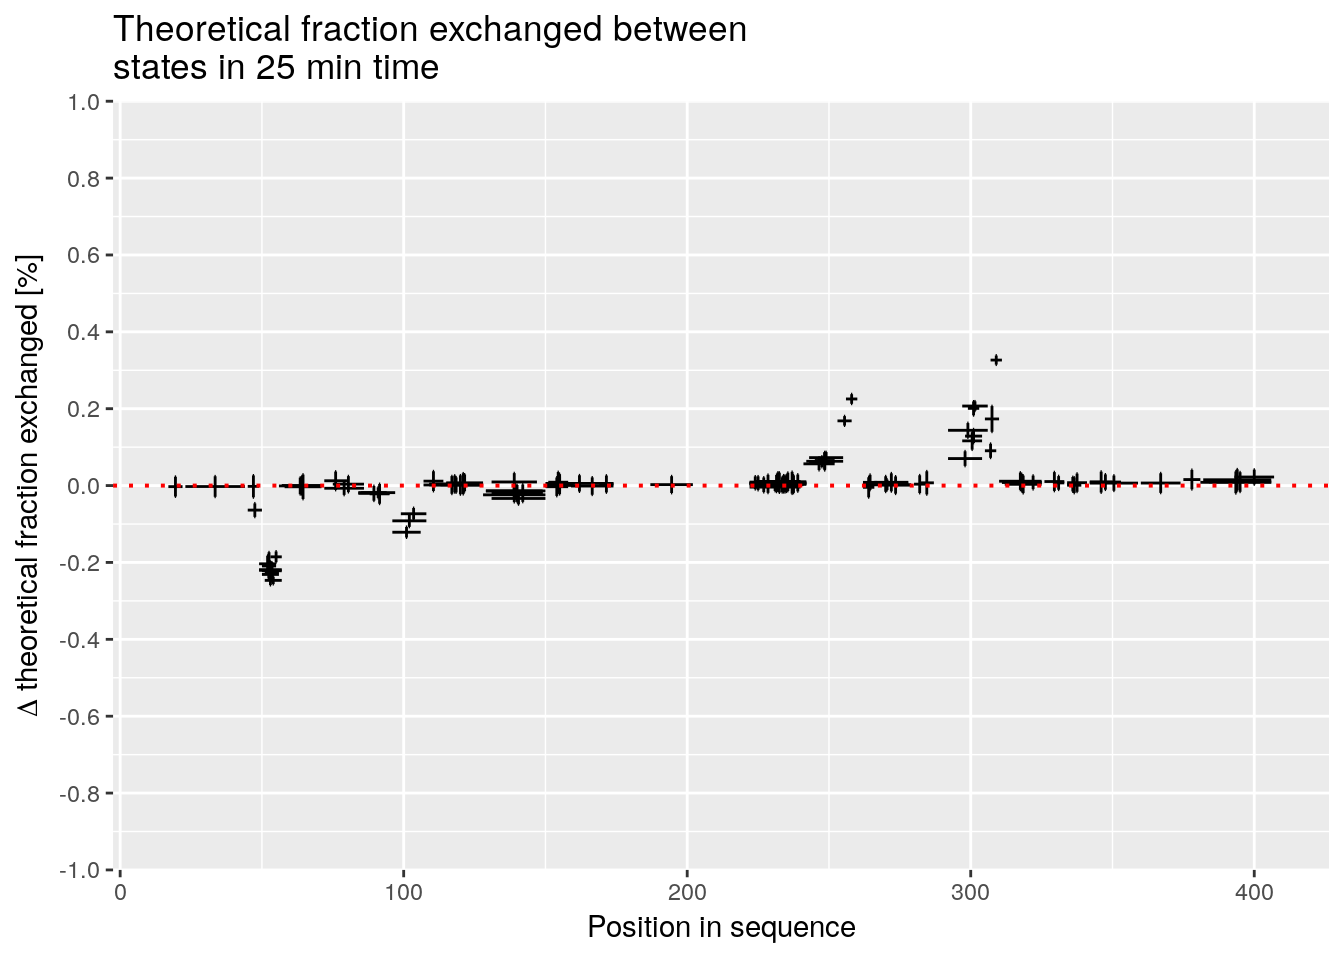
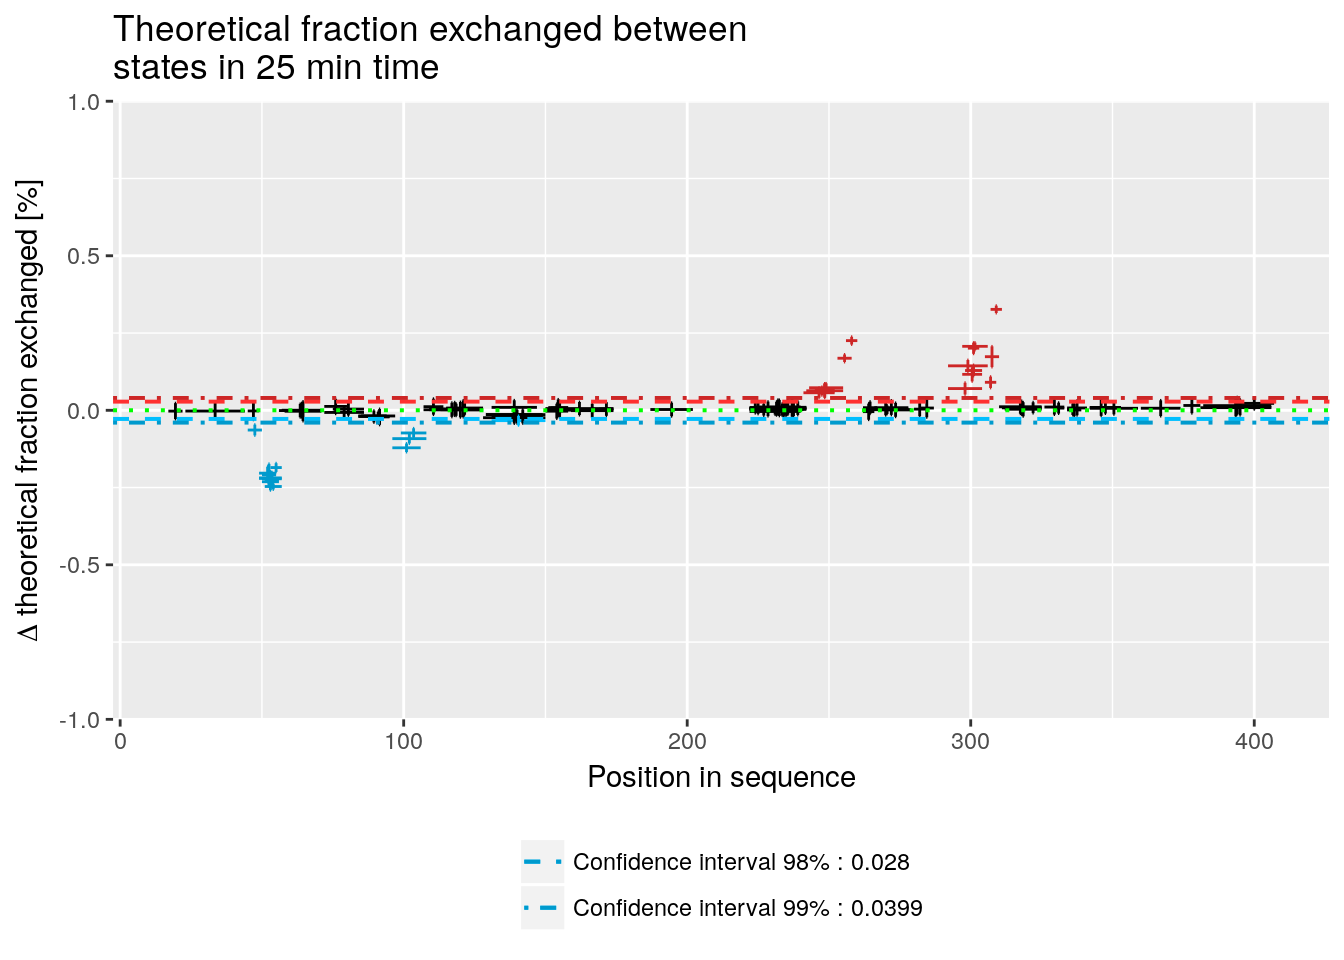
updated docs

diff --git a/docs/reference/woods_plot.html b/docs/reference/woods_plot.html
@@ -118,7 +118,8 @@
     
     </div>
 
-    <pre class="usage"><span class='fu'>woods_plot</span>(<span class='no'>calc_dat</span>, <span class='kw'>theoretical</span> <span class='kw'>=</span> <span class='fl'>FALSE</span>, <span class='kw'>relative</span> <span class='kw'>=</span> <span class='fl'>TRUE</span>)</pre>
+    <pre class="usage"><span class='fu'>woods_plot</span>(<span class='no'>calc_dat</span>, <span class='kw'>theoretical</span> <span class='kw'>=</span> <span class='fl'>FALSE</span>, <span class='kw'>relative</span> <span class='kw'>=</span> <span class='fl'>TRUE</span>,
+  <span class='kw'>confidence_limit</span> <span class='kw'>=</span> <span class='fl'>0.98</span>, <span class='kw'>confidence_limit_2</span> <span class='kw'>=</span> <span class='fl'>0.99</span>)</pre>
     
     <h2 class="hasAnchor" id="arguments"><a class="anchor" href="#arguments"></a>Arguments</h2>
     <table class="ref-arguments">
@@ -134,6 +135,14 @@
     <tr>
       <th>relative</th>
       <td><p>logical value to determine if values are relative or absolute. default : true</p></td>
+    </tr>
+    <tr>
+      <th>confidence_limit</th>
+      <td><p>confidence limit</p></td>
+    </tr>
+    <tr>
+      <th>confidence_limit_2</th>
+      <td><p>confidence limit 2</p></td>
     </tr>
     </table>
     
@@ -165,13 +174,21 @@
                             <span class='kw'>out_state_second</span> <span class='kw'>=</span> <span class='st'>"CD160_HVEM_1440"</span>)
 <span class='fu'>woods_plot</span>(<span class='kw'>calc_dat</span> <span class='kw'>=</span> <span class='no'>calc_dat</span>,
            <span class='kw'>theoretical</span> <span class='kw'>=</span> <span class='fl'>TRUE</span>,
-           <span class='kw'>relative</span> <span class='kw'>=</span> <span class='fl'>TRUE</span>)</div><div class='img'><img src='woods_plot-1.png' alt='' width='700' height='433' /></div><div class='input'><span class='fu'>woods_plot</span>(<span class='kw'>calc_dat</span> <span class='kw'>=</span> <span class='no'>calc_dat</span>,
+           <span class='kw'>relative</span> <span class='kw'>=</span> <span class='fl'>TRUE</span>,
+           <span class='kw'>confidence_limit</span> <span class='kw'>=</span> <span class='fl'>0.98</span>,
+           <span class='kw'>confidence_limit_2</span> <span class='kw'>=</span> <span class='fl'>0.99</span>)</div><div class='img'><img src='woods_plot-1.png' alt='' width='700' height='433' /></div><div class='input'><span class='fu'>woods_plot</span>(<span class='kw'>calc_dat</span> <span class='kw'>=</span> <span class='no'>calc_dat</span>,
            <span class='kw'>theoretical</span> <span class='kw'>=</span> <span class='fl'>FALSE</span>,
-           <span class='kw'>relative</span> <span class='kw'>=</span> <span class='fl'>TRUE</span>)</div><div class='img'><img src='woods_plot-2.png' alt='' width='700' height='433' /></div><div class='input'><span class='fu'>woods_plot</span>(<span class='kw'>calc_dat</span> <span class='kw'>=</span> <span class='no'>calc_dat</span>,
+           <span class='kw'>relative</span> <span class='kw'>=</span> <span class='fl'>TRUE</span>,
+           <span class='kw'>confidence_limit</span> <span class='kw'>=</span> <span class='fl'>0.98</span>,
+           <span class='kw'>confidence_limit_2</span> <span class='kw'>=</span> <span class='fl'>0.99</span>)</div><div class='img'><img src='woods_plot-2.png' alt='' width='700' height='433' /></div><div class='input'><span class='fu'>woods_plot</span>(<span class='kw'>calc_dat</span> <span class='kw'>=</span> <span class='no'>calc_dat</span>,
            <span class='kw'>theoretical</span> <span class='kw'>=</span> <span class='fl'>TRUE</span>,
-           <span class='kw'>relative</span> <span class='kw'>=</span> <span class='fl'>FALSE</span>)</div><div class='img'><img src='woods_plot-3.png' alt='' width='700' height='433' /></div><div class='input'><span class='fu'>woods_plot</span>(<span class='kw'>calc_dat</span> <span class='kw'>=</span> <span class='no'>calc_dat</span>,
+           <span class='kw'>relative</span> <span class='kw'>=</span> <span class='fl'>FALSE</span>,
+           <span class='kw'>confidence_limit</span> <span class='kw'>=</span> <span class='fl'>0.98</span>,
+           <span class='kw'>confidence_limit_2</span> <span class='kw'>=</span> <span class='fl'>0.99</span>)</div><div class='img'><img src='woods_plot-3.png' alt='' width='700' height='433' /></div><div class='input'><span class='fu'>woods_plot</span>(<span class='kw'>calc_dat</span> <span class='kw'>=</span> <span class='no'>calc_dat</span>,
            <span class='kw'>theoretical</span> <span class='kw'>=</span> <span class='fl'>FALSE</span>,
-           <span class='kw'>relative</span> <span class='kw'>=</span> <span class='fl'>FALSE</span>)</div><div class='img'><img src='woods_plot-4.png' alt='' width='700' height='433' /></div><div class='input'>            
+           <span class='kw'>relative</span> <span class='kw'>=</span> <span class='fl'>FALSE</span>,
+           <span class='kw'>confidence_limit</span> <span class='kw'>=</span> <span class='fl'>0.98</span>,
+           <span class='kw'>confidence_limit_2</span> <span class='kw'>=</span> <span class='fl'>0.99</span>)</div><div class='img'><img src='woods_plot-4.png' alt='' width='700' height='433' /></div><div class='input'>            
 </div></span></pre>
   </div>
   <div class="col-md-3 hidden-xs hidden-sm" id="sidebar">
